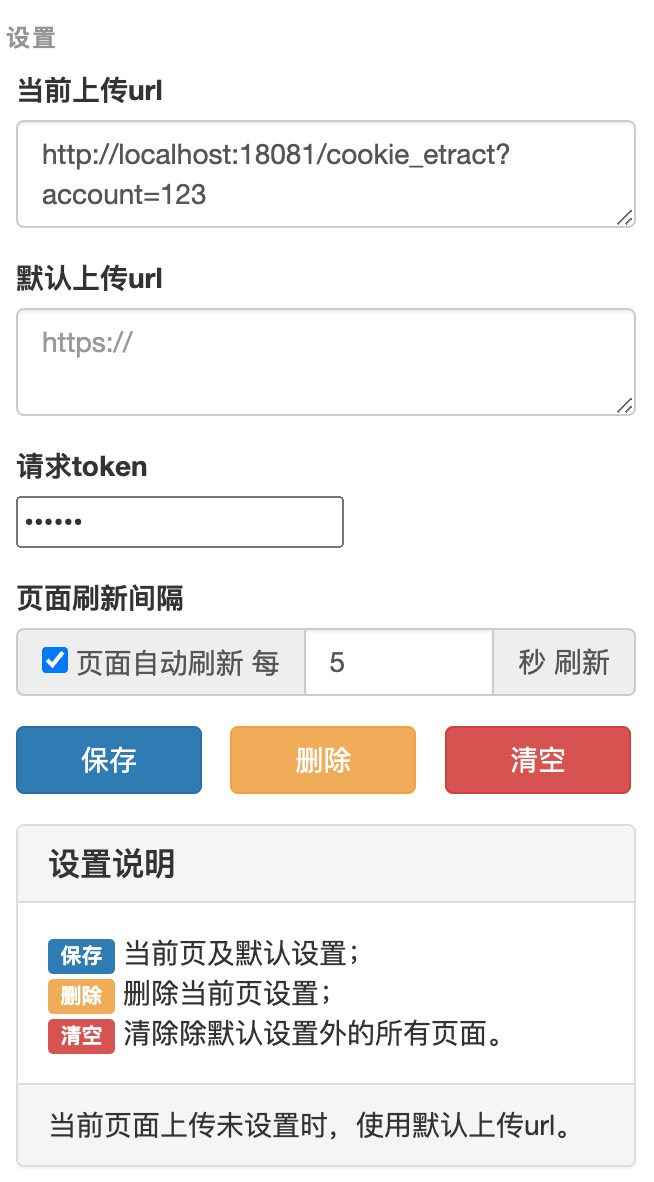
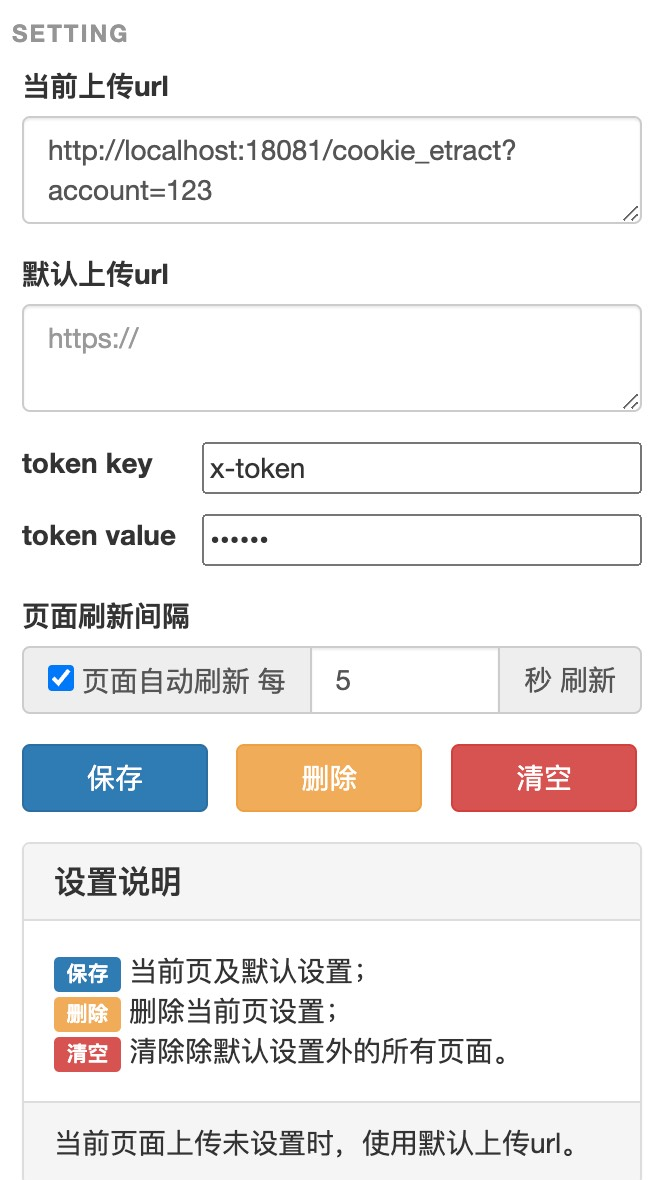
upload

diff --git a/cookie-upload-src/popup.html b/cookie-upload-src/popup.html
@@ -2,7 +2,7 @@
 <html>
 
 <head>
-    <meta charset="utf-8" />
+    <meta charset="utf-8"/>
     <title>设置</title>
     <link rel="stylesheet" href="css/bootstrap.min.css">
     <style>
@@ -32,61 +32,93 @@
         #save_btn {
             margin-left: 0;
         }
+
+        .line-break {
+            margin-bottom: 10px;
+        }
+
+        .label-container {
+            display: flex;
+            align-items: center;
+        }
+
+        .label-container label {
+            width: 80px;
+            /*text-align: right;*/
+            margin-right: 10px;
+        }
+
+        .label-container input {
+            flex: 1;
+        }
+
     </style>
+
 </head>
 
 <body>
-    <div class="wrapper container">
-        <div class="form-group">
-            <label for="current_url">当前上传url</label>
-            <textarea class="form-control" id="current_url" placeholder="https://"></textarea>
-        </div>
-        <div class="form-group">
-            <label for="post_url">默认上传url</label>
-            <textarea class="form-control" id="post_url" placeholder="https://"></textarea>
-        </div>
-        <div class="form-group">
-            <label for="token">请求token</label>
-            <br>
-
-            <!--            <textarea class="form-control" id="token"></textarea>-->
-            <input id="token" type="password" />
-        </div>
-        <div class="form-group">
-            <label for="fresh_time">页面刷新间隔</label>
-            <div class="input-group">
-                <label class="input-group-addon">
-                    <input type="checkbox" id="auto_fresh"> 页面自动刷新    每
-                </label>
-                <input class="form-control" type="number" id="fresh_time" placeholder="0" value="5" οnkeyup="this.value=this.value.replace(/^\+?[1-9]\d*$/,'0')" onafterpaste="this.value=this.value.replace(/^\+?[1-9]\d*$/,'0')" />
-                <div class="input-group-addon">秒 刷新</div>
-            </div>
-
-        </div>
-        <div class="form-group">
-            <button id="save_btn" class="btn btn-primary">保存</button>
-            <button id="delete_btn" class="btn btn-warning">删除</button>
-            <button id="clear_btn" class="btn btn-danger">清空</button>
-        </div>
-        <div class="panel panel-default">
-            <div class="panel-heading">
-                <h3 class="panel-title">设置说明</h3>
-            </div>
-            <div class="panel-body">
-                <span class="label label-primary">保存</span> 当前页及默认设置；
-                <br>
-                <span class="label label-warning">删除</span> 删除当前页设置；
-                <br>
-                <span class="label label-danger">清空</span> 清除除默认设置外的所有页面。
-            </div>
-			<div class="panel-footer">
-				当前页面上传未设置时，使用默认上传url。
-			</div>
-        </div>
-		<p class="text-center">
-			<small>Design by <span class="text-uppercase">jayden</span></small>
-		</p>
+<div class="wrapper container">
+    <div class="form-group">
+        <label for="current_url">当前上传url</label>
+        <textarea class="form-control" id="current_url" placeholder="https://"></textarea>
     </div>
+    <div class="form-group">
+        <label for="post_url">默认上传url</label>
+        <textarea class="form-control" id="post_url" placeholder="https://"></textarea>
+    </div>
+    <div class="form-group">
+        <div class="line-break">
+            <div class="label-container">
+                <label for="token_key">token key</label>
+                <input id="token_key" class="input-break" value="token" type="text" />
+            </div>
+        </div>
+        <div>
+            <div class="label-container">
+                <label for="token_value">token value</label>
+                <input id="token_value" type="password" />
+            </div>
+        </div>
+
+
+    </div>
+    <div class="form-group">
+        <label for="fresh_time">页面刷新间隔</label>
+        <div class="input-group">
+            <label class="input-group-addon">
+                <input type="checkbox" id="auto_fresh"> 页面自动刷新 每
+            </label>
+            <input class="form-control" type="number" id="fresh_time" placeholder="0" value="5"
+                   οnkeyup="this.value=this.value.replace(/^\+?[1-9]\d*$/,'0')"
+                   onafterpaste="this.value=this.value.replace(/^\+?[1-9]\d*$/,'0')"/>
+            <div class="input-group-addon">秒 刷新</div>
+        </div>
+
+    </div>
+    <div class="form-group">
+        <button id="save_btn" class="btn btn-primary">保存</button>
+        <button id="delete_btn" class="btn btn-warning">删除</button>
+        <button id="clear_btn" class="btn btn-danger">清空</button>
+    </div>
+    <div class="panel panel-default">
+        <div class="panel-heading">
+            <h3 class="panel-title">设置说明</h3>
+        </div>
+        <div class="panel-body">
+            <span class="label label-primary">保存</span> 当前页及默认设置；
+            <br>
+            <span class="label label-warning">删除</span> 删除当前页设置；
+            <br>
+            <span class="label label-danger">清空</span> 清除除默认设置外的所有页面。
+        </div>
+        <div class="panel-footer">
+            当前页面上传未设置时，使用默认上传url。
+        </div>
+    </div>
+    <p class="text-center">
+        <small>Design by <span class="text-uppercase">jayden</span></small>
+    </p>
+</div>
 </body>
 
 <!--<script cookie-upload-src="js/md5.min.js"></script>-->

diff --git a/cookie-upload-src/js/popup.js b/cookie-upload-src/js/popup.js
@@ -14,7 +14,8 @@ document.addEventListener('DOMContentLoaded', function () {
     const post_url = document.querySelector('#post_url');
     const fresh_time = document.querySelector('#fresh_time');
     const auto_fresh = document.querySelector('#auto_fresh');
-    const token = document.querySelector('#token');
+    const token_key = document.querySelector('#token_key');
+    const token_value = document.querySelector('#token_value');
     var tabUrl = ""
     var domain = ""
 
@@ -39,7 +40,8 @@ document.addEventListener('DOMContentLoaded', function () {
                 current_url.value = item.url;
                 fresh_time.value = item.fresh_time;
                 auto_fresh.checked = item.auto_fresh;
-                token.value = item.token;
+                token_key.value = item.token_key;
+                token_value.value = item.token_value;
 
                 // 根据auto_fresh和fresh_time设置徽章文本
                 if (auto_fresh.checked && parseInt(fresh_time.value) > 0) {
@@ -84,14 +86,11 @@ function saveSettings(tabUrl, domain) {
         "fresh_time": fresh,
         "auto_fresh": auto,
         "ref": tabUrl, // Assuming you meant the current URL
-        "token": token.value // Assuming you meant the current URL
+        "token_value": token_value.value, // Assuming you meant the current URL
+        "token_key": token_key.value // Assuming you meant the current URL
     });
 
     console.log("【popup】localItem", localItem);
-    // if(post !== ''){
-    //     localStorage.setItem('post_url', post);
-    // }
-    localStorage.setItem('current_url', current);
     chrome.storage.local.set({'post_url': post}, function () {
         console.log('【popup】Data has been set.', post);
     });
@@ -100,6 +99,7 @@ function saveSettings(tabUrl, domain) {
         console.log('【popup】Data has been set.', domain, tabUrl);
     });
 
+    localStorage.setItem('current_url', current);
     localStorage.setItem('fresh', fresh);
     localStorage.setItem('ref', tabUrl);
     localStorage.setItem('auto', auto);

diff --git a/cookie-upload-src/js/background.js b/cookie-upload-src/js/background.js
@@ -19,7 +19,7 @@ async function saveCookieToServer(setting, currentCookie, currentUrl) {
         const response = await fetch(post_url, {
             method: 'POST',
             body: params,
-            headers: {'Content-Type': 'application/x-www-form-urlencoded', 'token': setting.token},
+            headers: {'Content-Type': 'application/x-www-form-urlencoded', [setting.token_key]: setting.token_value},
         });
 
         if (response.ok) {
